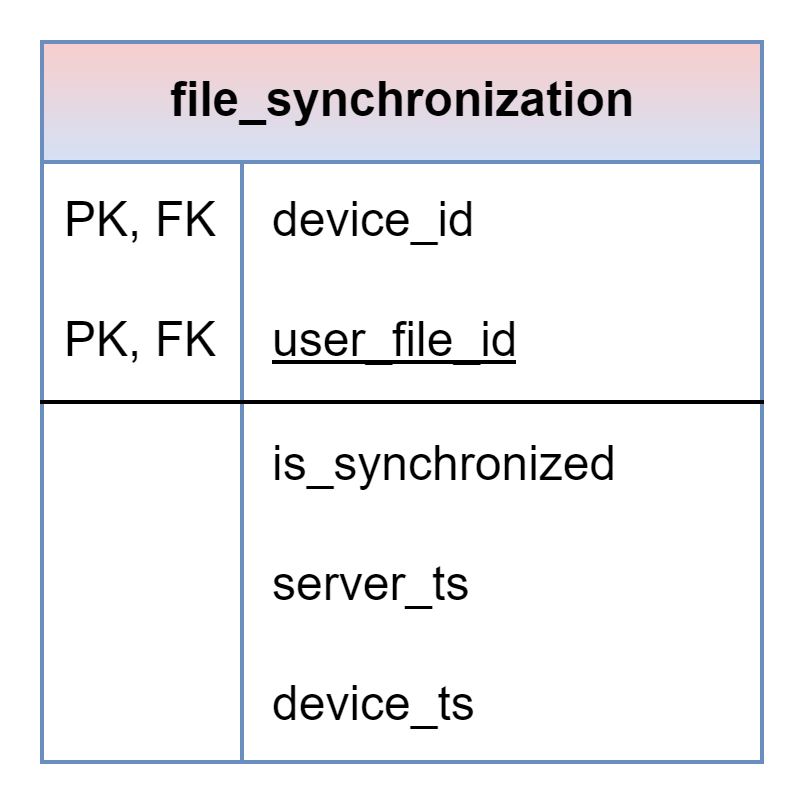
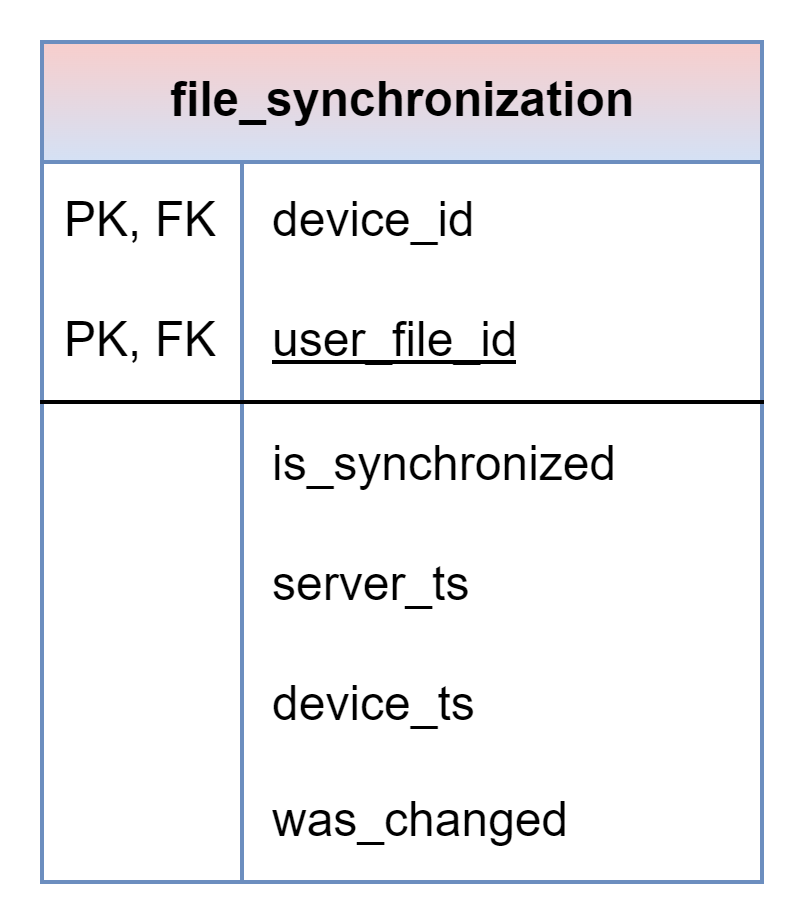
Create update playlist logic

diff --git a/docs/business/file_coordinator/file_management.md b/docs/business/file_coordinator/file_management.md
@@ -6,6 +6,8 @@ This document describes file management details, such as file downloading, synch
 
 - [File checking](#file-checking)
 - [Tag parsing](#tag-parsing)
+- [Playlist updating](#playlist-updating)
+- [File downloading](#file-downloading)
 
 # File checking
 
@@ -91,6 +93,7 @@ file_id = request.file_id
 
 Update the [file_synchronization](../../database/files/file_synchronization.md) table with:  
 is_synchronized = FALSE  
+was_changed = TRUE  
 server_ts = current timestamp    
 where:  
 user_file_id = <b>user_file</b>.id  
@@ -143,3 +146,187 @@ Insert a new record in the [playlists](../../database/files/playlists.md) table 
 source_url = normalizedUrl  
 source_id = sourceId  
 status = "CR"  
+
+# Playlist updating
+
+This functionality is responsible for the playlist updating.
+
+API:
+```json
+routing-key: parsing/playlists/youtube
+body:
+{
+    "playlist_id": "1",
+    "files": ["https://youtu.be/e2YRVZ4cmeo?si=hBUM-FE6ITmVNdJm"]
+}
+``` 
+
+The system should:
+
+#### AC 1
+
+Try to find a record in the [playlists](../../database/files/playlists.md) table by the following filter:  
+id = request.body.playlist_id  
+
+Does the record exist?
+- yes - continue
+- no - exit with error
+
+#### AC 2
+
+Try to find <b>up_recorcds</b> in the [user_playlists](../../database/files/user_playlists.md) table by the following filter:  
+playlist_id = request.body.playlist_id  
+
+Are any records found?
+- yes - continue
+- no - exit with error
+
+#### AC 3
+
+For each <b>up_recorcd</b> do:  
+
+#### AC 3.1.1
+
+Find <b>upff_recorcds</b> in the [user_playlist_files](../../database/files/user_playlist_files.md) table joined with [files](../../database/files/files.md) by the following filter:  
+user_playlist_id = <b>up_recorcd</b>.id  
+
+#### AC 3.1.2
+
+Form two lists from the <b>upff_recorcds</b> and request.body.files datasets.  
+List <b>new_files</b> should contain files that exist only int the request.body.files set.  
+List <b>removed_files</b> should contain files that exist only int the <b>upff_recorcds</b> set.  
+
+#### AC 3.2
+
+For each member of <b>new_files</b> list do [File downloading](#file-downloading).  
+
+#### AC 3.3.1
+
+For each member of <b>removed_files</b> list do:
+
+#### AC 3.3.2
+
+Update records [user_playlist_files](../../database/files/user_playlist_files.md) table with following data:  
+missing_from_remote = TRUE  
+
+#### AC 3.3.3
+
+Update records [file_synchronization](../../database/files/file_synchronization.md) table with following data:  
+is_synchronized = FALSE  
+server_ts = NOW()  
+where:  
+user_file_id =     
+&emsp; id from [user_files](../../database/files/user_files.md) where:  
+&emsp; file_id = <b>removed_files</b>.file.id 
+&emsp; user_id = <b>up_recorcd</b>.user_id  
+
+# File downloading  
+
+Function parameters:
+```
+playlist_id="1",
+url="someUrl",
+``` 
+
+The server should:
+
+#### AC 1
+
+Via the filePlugin perform parameters.url normalization and get sourceId  
+normalizedUrl = normalize parameters.url  
+sourceId = get source id for parameters.url  
+
+#### AC 2
+
+Try to find a record in the [files](../../database/files/files.md) table by the following filter:  
+source_url = normalizedUrl  
+
+Does the record exist?
+- yes - go to AC 3
+- no - go to AC 4
+
+#### AC 3
+
+Try to find a record in the [user_paylist_files](../../database/files/user_playlist_files.md) using following filter:  
+file_id = <b>file</b>.id  
+user_playlist_id =   
+&emsp; id from [user_playlists](../../database/files/user_playlists.md) where:  
+&emsp; user_id = request.body.user_id  
+&emsp; playlist_id = parameters.playlist_id  
+
+Does the record exist?
+- yes - abort with "File alreay exists"
+- no - go to AC 8
+
+#### AC 4
+
+Insert a new record in the [files](../../database/files/files.md) table with the following values:  
+path = null  
+source_url = normalizedUrl  
+status = "CR"  
+
+#### AC 5
+
+Request file downloading.  
+Value mapping for the request:  
+file_id = created_file.id  
+url = normalizedUrl  
+uuid = created_file.uuid  
+
+#### AC 6
+
+Create a native tag record in the [tags](../../database/tags/tags.md) table with the following values:  
+file_id = created_file.id   
+source = sourceId  
+status = "CR"  
+is_primary = true
+
+#### AC 7
+
+Request native tag parsing.  
+Value mapping for the request:  
+tag_id = created_tag.id  
+url = normalizedUrl  
+
+#### AC 8
+
+Insert a new record in the [user_paylist_files](../../database/files/user_playlist_files.md) table with the following values:  
+file_id = <b>file</b>.id  
+user_playlist_id =   
+&emsp; id from [user_playlists](../../database/files/user_playlists.md) where:  
+&emsp; user_id = request.body.user_id  
+&emsp; playlist_id = parameters.playlist_id  
+missing_from_remote = FALSE  
+
+#### AC 9.1
+
+Read a record from the [user_files](../../database/files/user_files.md) table using following filter:  
+user_id = request.user.id  
+file_id = <b>file</b>.id  
+
+Record exists?
+
+- yes - go to AC 10
+- no - continue
+
+#### AC 9.2
+
+Create a record in the [user_files](../../database/files/user_files.md) table with the following values:  
+user_id = request.user.id  
+file_id = <b>file</b>.id  
+
+#### AC 10
+
+Create a record in the [tag_mappings](../../database/tags/tag_mappings.md) table with the following values:  
+user_id = request.user.id  
+file_id = (created_file / found_file).id  
+all tags = sourceId  
+
+### AC 11
+
+For each record in the [devices](../../database/users/devices.md) table fulfilling following filter:  
+user_id = request.user.id  
+  
+Create a record in the [file_synchronization](../../database/files/file_synchronization.md) table with the following values:  
+device_id = record.id  
+user_file_id = <b>user_file</b>.id  

diff --git a/docs/business/server/file_management.md b/docs/business/server/file_management.md
@@ -86,7 +86,7 @@ Does the record exist?
 
 #### AC 3
 
-Try to find a record in the [user_paylist_files](../../database/files/user_paylist_files.md) using following filter:  
+Try to find a record in the [user_paylist_files](../../database/files/user_playlist_files.md) using following filter:  
 file_id = <b>file</b>.id  
 user_playlist_id =   
 &emsp; id from [user_playlists](../../database/files/user_playlists.md) where:  
@@ -129,7 +129,7 @@ url = normalizedUrl
 
 #### AC 8
 
-Insert a new record in the [user_paylist_files](../../database/files/user_paylist_files.md) table with the following values:  
+Insert a new record in the [user_paylist_files](../../database/files/user_playlist_files.md) table with the following values:  
 file_id = <b>file</b>.id  
 user_playlist_id =   
 &emsp; id from [user_playlists](../../database/files/user_playlists.md) where:  
@@ -186,7 +186,7 @@ Does a record exist?
 
 ### AC 2
 
-Remove records from the [user_playlist_files](../../database/files/user_paylist_files.md) for given request.url.playlists where:  
+Remove records from the [user_playlist_files](../../database/files/user_playlist_files.md) for given request.url.playlists where:  
 file_id = request.url.id  
 user_playlist_id = any(  
 &emsp; id from [user_playlists](../../database/files/user_platlists.md) where:  
@@ -282,6 +282,7 @@ For each <b>user_file</b> record perform AC 4
 
 Update the [file_synchronization](../../database/files/file_synchronization.md) table with:  
 is_synchronized = FALSE  
+was_changed = TRUE  
 server_ts = current timestamp  
 where:  
 user_file_id = <b>user_file</b>.id  
@@ -385,7 +386,7 @@ user_file_id = <b>user_file</b>.id
 
 ### AC 1.3
 
-Find records in the [user_playlist_files](../../database/files/user_paylist_files.md) where:  
+Find records in the [user_playlist_files](../../database/files/user_playlist_files.md) where:  
 file_id = request.url.id    
 user_id = request.body.user_id    
 
@@ -397,6 +398,7 @@ Are any records found?
 
 Update the [file_synchronization](../../database/files/file_synchronization.md) table with:  
 is_synchronized = TRUE  
+was_changed = FALSE  
 device_ts = current timestamp  
 where:  
 device_id = request.url.deviceId  

diff --git a/docs/database/files/file_synchronization.md b/docs/database/files/file_synchronization.md
@@ -13,3 +13,4 @@ This page describes the public.file_synchronization table
 | is_synchronized | BOOLEAN | NOT NULL, DEFAULT FALSE |
 | server_ts | TIMESTAMPTZ | NOT NULL, DEFAULT CURRENT_TIMESTAMP |
 | device_ts | TIMESTAMPTZ |
+| was_changed | BOOLEAN | NOT NULL, DEFAULT FALSE |

diff --git a/docs/database/files/user_playlist_files.md b/docs/database/files/user_playlist_files.md
@@ -2,7 +2,7 @@
 
 This page describes the public.user_playlists table
 
-![alt text](user_paylist_files.png)
+![alt text](user_playlist_files.png)
 
 ## Structure definition
 
